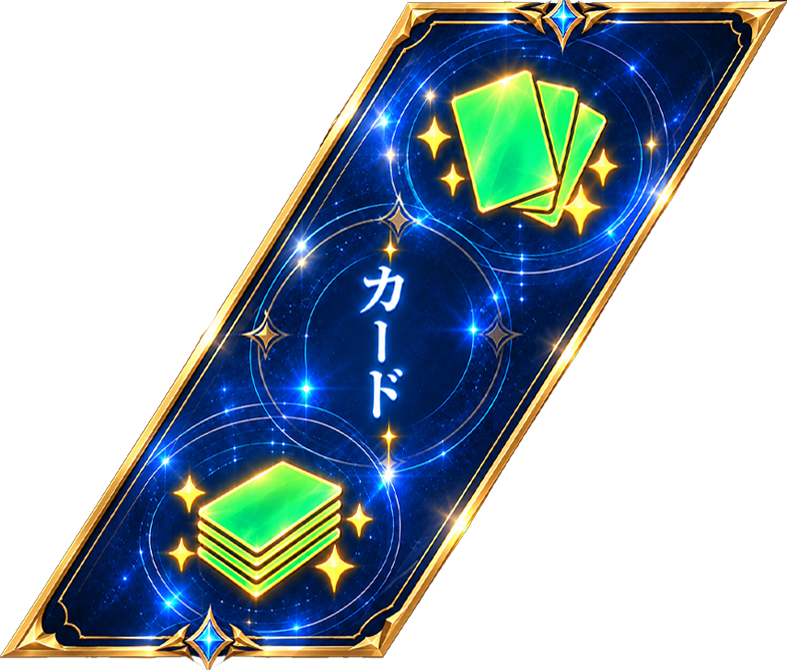
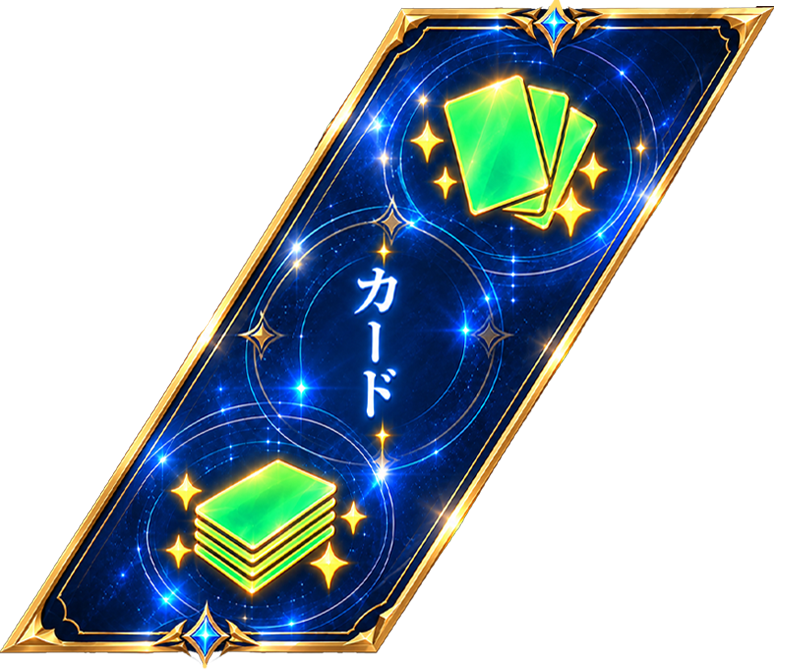
changr

Changed region(s): [[0.0, 0.0, 1.0, 1.0]]

diff --git a/Assets/SCRIPT/C#Script/SHIMURA/Reel And lottely/SlotRoleDrawer.cs b/Assets/SCRIPT/C#Script/SHIMURA/Reel And lottely/SlotRoleDrawer.cs
@@ -1,135 +1,160 @@
+
 using UnityEngine;
 
 /// <summary>
 /// パチスロの役抽選を管理するクラス。
-/// 
-/// MonoBehaviour ではないので、GameObject にはアタッチしません。
-/// SlotReelController.cs の中で new SlotRoleDrawer() して使います。
-/// 
-/// 【このクラスの役割】
-/// ・現在のテーブル T1〜T5 に応じて役を抽選する
-/// ・SlotSymbolRole を日本語表示名に変換する
-/// 
-/// 【ここをいじるとどうなる？】
-/// roleTables の数字を変えると、役確率が変わります。
-/// 例：Bell の数字を増やすとベルが当たりやすくなります。
-/// ただし、各行の合計は必ず 65536 にしてください。
+///
+/// MonoBehaviourではありません。
+/// SlotReelController.csなどから new SlotRoleDrawer() して使用します。
+///
+/// 【機能】
+/// ・T1～T50の役抽選
+/// ・RUSH専用の役抽選
+/// ・役の日本語表示名を取得
 /// </summary>
-public class SlotRoleDrawer
-{
-    /// <summary>
-    /// 乱数の最大値。
-    /// Random.Range(0, 99) なので、実際に出る値は 0〜99 です。
-    /// </summary>
+public class SlotRoleDrawer {
+    // 乱数範囲：0～99
     private const int MaxRandom = 100;
 
-    /// <summary>
-    /// テーブル番号の最小値と最大値。
-    /// Inspector で範囲外の値を入れても、この範囲に補正します。
-    /// </summary>
+    // 使用できるテーブル範囲
     private const int MinTable = 1;
-    private const int MaxTable = 5;
+    private const int MaxTable = 50;
 
-    int randomValue;
     /// <summary>
     /// 役抽選テーブル。
-    /// 
-    /// 行：テーブル番号
-    /// 0行目 = T1
-    /// 1行目 = T2
-    /// 2行目 = T3
-    /// 3行目 = T4
-    /// 4行目 = T5
-    /// 
-    /// 列：SlotSymbolRole enum の順番
-    /// Miss, Bell, Replay, WeakCherry, Watermelon, Chance, StrongCherry, Seven
-    /// 
-    /// 【編集時の注意】
-    /// 各行の合計は必ず 100 にしてください。
-    /// 合計が足りない場合、最後にハズレへ逃げる可能性があります。
-    /// 合計が多すぎる場合、後ろの役が抽選されにくくなります。
+    ///
+    /// 行：テーブル番号（T1～T50）
+    ///
+    /// 列：PachisuroSymbolKoyakuEnumの順番
+    ///
+    /// 0 Miss         はずれ
+    /// 1 Bell         ベル
+    /// 2 Replay       リプレイ
+    /// 3 WeakCherry   弱チェリー
+    /// 4 Suika        スイカ
+    /// 5 Chance       チャンス目
+    /// 6 StrongCherry 強チェリー
+    /// 7 Seven        7揃い
+    ///
+    /// 各行の合計は必ず100％です。
     /// </summary>
+
     private readonly int[,] roleTables =
     {
-        { 45, 0, 20,  4,  6,  2, 2, 21 }, // T1
-        { 40, 2, 22,  4, 6,  2, 2, 22 }, // T2
-        { 35, 2, 22,  6,  8,  2,2, 22 }, // T3
-        { 30, 4, 24,  6,  8,  3, 2,23 }, // T4
-        { 25, 5, 25,  6,  9,  4, 4,23 }  // T5
+        // はずれ, ベル, リプ, 弱チェ, スイカ, チャンス目, 強チェ, 7揃い
+
+        { 45, 20, 20,  4,  6,  2,  2,  1 }, // T1
+        { 40, 22, 22,  4,  6,  2,  2,  2 }, // T2
+        { 35, 22, 23,  6,  8,  2,  2,  2 }, // T3
+        { 30, 24, 24,  6,  8,  3,  2,  3 }, // T4
+        { 25, 25, 25,  6,  8,  4,  4,  3 }, // T5
+
+        { 23, 26, 25,  6,  8,  4,  4,  4 }, // T6
+        { 21, 25, 25,  7,  9,  4,  4,  5 }, // T7
+        { 19, 25, 25,  7,  9,  5,  5,  5 }, // T8
+        { 17, 25, 25,  7, 10,  5,  5,  6 }, // T9
+        { 15, 25, 25,  8, 10,  5,  6,  6 }, // T10
+
+        { 15, 25, 25,  8, 10,  5,  6,  6 }, // T11
+        { 14, 26, 25,  8, 10,  5,  6,  6 }, // T12
+        { 14, 25, 25,  8, 11,  5,  6,  6 }, // T13
+        { 14, 24, 24,  8, 11,  6,  6,  7 }, // T14
+        { 13, 24, 23,  9, 11,  6,  7,  7 }, // T15
+        { 13, 24, 23,  9, 11,  6,  7,  7 }, // T16
+        { 12, 24, 24,  9, 11,  6,  7,  7 }, // T17
+        { 12, 24, 24,  9, 11,  6,  7,  7 }, // T18
+        { 12, 24, 23,  9, 12,  6,  7,  7 }, // T19
+        { 11, 24, 24,  9, 12,  6,  7,  7 }, // T20
+
+        { 11, 24, 24,  9, 12,  6,  7,  7 }, // T21
+        { 11, 23, 23,  9, 12,  7,  7,  8 }, // T22
+        { 10, 24, 23,  9, 12,  7,  7,  8 }, // T23
+        { 10, 24, 23,  9, 12,  7,  7,  8 }, // T24
+        {  9, 23, 22, 10, 13,  7,  8,  8 }, // T25
+        {  9, 23, 22, 10, 13,  7,  8,  8 }, // T26
+        {  9, 23, 22, 10, 13,  7,  8,  8 }, // T27
+        {  8, 23, 23, 10, 13,  7,  8,  8 }, // T28
+        {  8, 23, 23, 10, 13,  7,  8,  8 }, // T29
+        {  8, 22, 21, 10, 14,  8,  8,  9 }, // T30
+
+        {  7, 22, 22, 10, 14,  8,  8,  9 }, // T31
+        {  7, 22, 22, 10, 14,  8,  8,  9 }, // T32
+        {  6, 23, 22, 10, 14,  8,  8,  9 }, // T33
+        {  6, 23, 22, 10, 14,  8,  8,  9 }, // T34
+        {  6, 22, 21, 11, 14,  8,  9,  9 }, // T35
+        {  5, 22, 21, 11, 15,  8,  9,  9 }, // T36
+        {  5, 22, 21, 11, 15,  8,  9,  9 }, // T37
+        {  5, 21, 20, 11, 15,  9,  9, 10 }, // T38
+        {  4, 21, 21, 11, 15,  9,  9, 10 }, // T39
+        {  4, 21, 21, 11, 15,  9,  9, 10 }, // T40
+
+        {  3, 22, 21, 11, 15,  9,  9, 10 }, // T41
+        {  3, 21, 21, 11, 16,  9,  9, 10 }, // T42
+        {  3, 21, 21, 11, 16,  9,  9, 10 }, // T43
+        {  2, 22, 21, 11, 16,  9,  9, 10 }, // T44
+        {  2, 21, 20, 12, 16,  9, 10, 10 }, // T45
+        {  1, 20, 20, 12, 16, 10, 10, 11 }, // T46
+        {  1, 20, 20, 12, 16, 10, 10, 11 }, // T47
+        {  1, 20, 19, 12, 17, 10, 10, 11 }, // T48
+        {  0, 20, 20, 12, 17, 10, 10, 11 }, // T49
+        {  0, 20, 20, 12, 17, 10, 10, 11 }, // T50
     };
 
     /// <summary>
-    /// 指定されたテーブルで役を抽選します。
-    /// 
-    /// table は 1〜5 を想定しています。
-    /// 1未満なら1、5より大きければ5として扱います。
+    /// 通常時の役抽選。
+    /// 指定テーブルに応じて役を抽選します。
     /// </summary>
-    public PachisuroSymbolKoyakuEnum DrawRole(int table)
-    {
-        // Inspector で範囲外の値が入っても壊れないように補正します。
-        int tableIndex = Mathf.Clamp(table, MinTable, MaxTable) - 1;
-
-        // 0〜65535 の乱数を取得します。
-        randomValue = Random.Range(0, MaxRandom);
-
-        // border は「ここまでの合計値」です。
-        // 乱数が border 未満になった時点で、その役に当選します。
-        int border = 0;
-
-        for (int i = 0; i < roleTables.GetLength(1); i++)
-        {
-            border += roleTables[tableIndex, i];
-
-            if (randomValue < border)
-            {
-                return (PachisuroSymbolKoyakuEnum)i;
-            }
-        }
-
-        // 通常はここには来ません。
-        // テーブル合計が 65536 未満だった場合などの保険です。
-        return PachisuroSymbolKoyakuEnum.Miss;
+    public PachisuroSymbolKoyakuEnum DrawRole(int table) {
+        return DrawRoleFromTable(table);
     }
 
-    //RUSH
+    /// <summary>
+    /// RUSH時の役抽選。
+    ///
+    /// 現在の仕様：
+    /// 50％で7揃い確定。
+    /// 残り50％で指定テーブルから通常抽選。
+    /// </summary>
     public PachisuroSymbolKoyakuEnum RUSHDrawRole(int table) {
         int sevenRandomValue = Random.Range(0, 2);
 
         if (sevenRandomValue == 0) {
             return PachisuroSymbolKoyakuEnum.Seven;
         }
-        else {
-            // Inspector で範囲外の値が入っても壊れないように補正します。
-            int tableIndex = Mathf.Clamp(table, MinTable, MaxTable) - 1;
 
-            // 0〜65535 の乱数を取得します。
-            randomValue = Random.Range(0, MaxRandom);
+        return DrawRoleFromTable(table);
+    }
 
-            // border は「ここまでの合計値」です。
-            // 乱数が border 未満になった時点で、その役に当選します。
-            int border = 0;
+    /// <summary>
+    /// テーブルに応じた共通役抽選処理。
+    /// </summary>
+    private PachisuroSymbolKoyakuEnum DrawRoleFromTable(int table) {
+        // T1～T50の範囲に補正
+        int tableIndex = Mathf.Clamp(table, MinTable, MaxTable) - 1;
 
-            for (int i = 0; i < roleTables.GetLength(1); i++) {
-                border += roleTables[tableIndex, i];
+        // 0～99の乱数
+        int randomValue = Random.Range(0, MaxRandom);
 
-                if (randomValue < border) {
-                    return (PachisuroSymbolKoyakuEnum)i;
-                }
+        // 累積確率
+        int border = 0;
+
+        for (int i = 0; i < roleTables.GetLength(1); i++) {
+            border += roleTables[tableIndex, i];
+
+            if (randomValue < border) {
+                return (PachisuroSymbolKoyakuEnum)i;
             }
         }
-        // 通常はここには来ません。
-        // テーブル合計が 65536 未満だった場合などの保険です。
+
+        // 保険
         return PachisuroSymbolKoyakuEnum.Miss;
     }
 
     /// <summary>
     /// 役の日本語表示名を返します。
-    /// Debug.Log や UI 表示に使います。
     /// </summary>
-    public string GetRoleName(PachisuroSymbolKoyakuEnum role)
-    {
-        switch (role)
-        {
+    public string GetRoleName(PachisuroSymbolKoyakuEnum role) {
+        switch (role) {
             case PachisuroSymbolKoyakuEnum.Miss:
                 return "ハズレ";
 

diff --git a/Assets/SCRIPT/C#Script/SHIMURA/Phase/PachisuroPhase.cs b/Assets/SCRIPT/C#Script/SHIMURA/Phase/PachisuroPhase.cs
@@ -1,3 +1,5 @@
+using System.Collections;
+using System.Collections.Generic;
 using Cysharp.Threading.Tasks;
 using UnityEngine;
 
@@ -87,6 +89,7 @@ public class PachisuroPhase : PhaseBase {
         if (slot.slotIndex >= slot.SLOT_TEARN_MAX_G &&
             !slot.IsAnyReelRotating() &&
             !slot.NetworkReelLockRunning) {
+            
             // 相手へ終了を知らせてから自分の状態を更新する。
             // チュートリアルなら送信せず終了する。
             // || の左側がtrueの場合、右側は実行されない。
@@ -96,9 +99,7 @@ public class PachisuroPhase : PhaseBase {
 
                 // 自分のRUSH・テーブル更新は既存処理を使用する。
                 slot.DebugAAA();
-                slot.efectManager.HideTrumps();
-                slot.EndNetworkPlayback();
-                nextPhase = true;
+                UniTask uniTasks = ExecuteAsync();
             }
         }
 
@@ -125,9 +126,8 @@ public class PachisuroPhase : PhaseBase {
 
             // 相手を表示するため一時的に上書きした状態を戻す。
             // 自分のテーブルを進めないためDebugAAAは呼ばない。
-            slot.EndNetworkPlayback();
-            
-            nextPhase = true;
+            //slot.EndNetworkPlayback();
+            UniTask uniTasks = ExecuteAsync();
         }
 
         return UniTask.CompletedTask;
@@ -183,5 +183,16 @@ public class PachisuroPhase : PhaseBase {
         }
 
         base.Teardown();
+    }
+
+
+
+    public async UniTask ExecuteAsync() {
+
+        await UniTask.Delay(3000);
+        slot.efectManager.HideTrumps();
+        slot.EndNetworkPlayback();
+        slot.HideStopEffectImage();
+        nextPhase = true;
     }
 }

diff --git a/Assets/SCRIPT/C#Script/SHIMURA/Reel And lottely/SlotReelController.cs b/Assets/SCRIPT/C#Script/SHIMURA/Reel And lottely/SlotReelController.cs
@@ -483,7 +483,7 @@ public class SlotReelController : MonoBehaviour {
         }
 
         if (IsAnyReelRotating() == false && slotIndex == SLOT_TEARN_MAX_G) {
-            efectManager.HideTrumps();
+            //efectManager.HideTrumps();
 
         }
         // Cキーで、通信しないチュートリアルモードへ変更。
@@ -501,6 +501,7 @@ public class SlotReelController : MonoBehaviour {
 
             Debug.Log("チュートリアルモードON：次の5Gの役を設定しました。");
         }
+        
     }
 
     //============================================================
@@ -1557,5 +1558,7 @@ public class SlotReelController : MonoBehaviour {
     }
 
 
-
+    
+        
+    
 }
